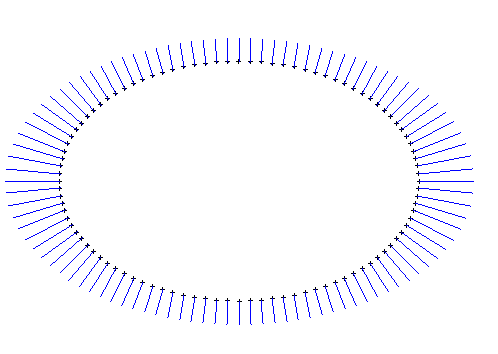
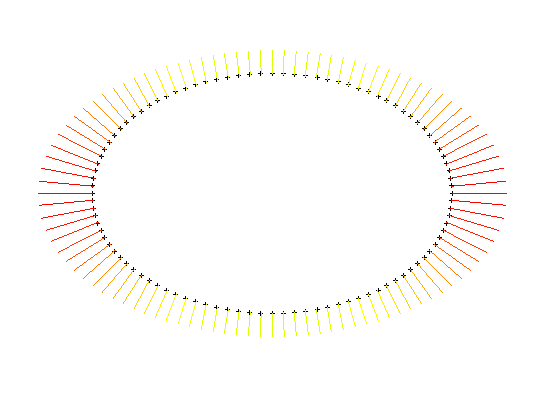
report: update and add images

diff --git a/report/B-2d.tex b/report/B-2d.tex
@@ -184,9 +184,9 @@ for different input point sets.
 
     \begin{minipage}{0.8\linewidth}
         \centering
-        \includegraphics[scale=0.32]{2d/area/square-76-001-100}
-        \includegraphics[scale=0.32]{2d/area/square-76-001-100-gradients}
-        \subcaption{Gradients of the area for 100 samples on a square}
+        \includegraphics[scale=0.32]{2d/area/square-40-001-100}
+        \includegraphics[scale=0.32]{2d/area/square-40-001-100-gradients}
+        \subcaption{Gradients of the area for 40 samples on a square}
         \label{fig:gradients_area_2d_square}
     \end{minipage}
 
@@ -218,9 +218,9 @@ same point clouds (see the figures \ref{fig:gradients_perimeter_2d}).
 
     \begin{minipage}{0.8\linewidth}
         \centering
-        \includegraphics[scale=0.32]{2d/perimeter/square-76-001-100}
-        \includegraphics[scale=0.32]{2d/perimeter/square-76-001-100-gradients}
-        \subcaption{Gradients of the perimeter for 100 samples on a square}
+        \includegraphics[scale=0.32]{2d/perimeter/square-40-001-100}
+        \includegraphics[scale=0.32]{2d/perimeter/square-40-001-100-gradients}
+        \subcaption{Gradients of the perimeter for 40 samples on a square}
         \label{fig:gradients_perimeter_2d_square}
     \end{minipage}
 
@@ -326,15 +326,28 @@ sampled on an ellipse: figures \ref{fig:ellipse_area_flow} and
     \includegraphics[scale=0.3]{2d/ellipse-balls-15}
     \subcaption{Minkowski sum of an ellipse and balls of radius $ 15 $}
 
-    \includegraphics[scale=0.4]{2d/area/ellipse-100-01-15}
-    \includegraphics[scale=0.4]{2d/area/ellipse-100-01-15-100}
+    \includegraphics[scale=0.3]{2d/area/ellipse-100-01-15}
+    \includegraphics[scale=0.3]{2d/area/ellipse-100-01-15-100}
     \subcaption{Area flow of an ellipse: 0 / 100 iterations with a timestep of $ 0.1 $}
     \label{fig:ellipse_area_flow}
 
-    \includegraphics[scale=0.4]{2d/perimeter/ellipse-100-01-15}
-    \includegraphics[scale=0.4]{2d/perimeter/ellipse-100-01-15-100}
+    \includegraphics[scale=0.3]{2d/perimeter/ellipse-100-01-15}
+    \includegraphics[scale=0.3]{2d/perimeter/ellipse-100-01-15-100}
     \subcaption{Perimeter flow of an ellipse: 0 / 100 iterations with a timestep of $ 0.5 $}
     \label{fig:ellipse_perimeter_flow}
+
+    \includegraphics[scale=0.22]{2d/perimeter/shark-0}
+    \includegraphics[scale=0.22]{2d/perimeter/shark-24}
+    \includegraphics[scale=0.22]{2d/perimeter/shark-49}
+    \subcaption{Perimeter flow of a shark: 0 / 25 / 50 iterations with a
+        timestep of $ 0.05 $}
+
+    \includegraphics[scale=0.22]{2d/perimeter/bird-0}
+    \includegraphics[scale=0.22]{2d/perimeter/bird-24}
+    \includegraphics[scale=0.22]{2d/perimeter/bird-49}
+    \subcaption{Perimeter flow of a bird: 0 / 25 / 50 iterations with a
+        timestep of $ 0.05 $}
+    \label{fig:shark_perimeter_flow}
 \end{figure}
 
 We test the smoothing property of our flow on points sampled on a square, see
@@ -350,33 +363,37 @@ discrete flow smooth the corners of the square.
     \label{fig:area_perimeter_flow_square}
 \end{figure}
 
-We also verify that the area of the union of balls is decreasing, see
-the figure \ref{fig:area_time_decrease}.
+We also verify that the area of the union of balls decreases with the number of
+iterations, see the figure \ref{fig:area_time_decrease}.
 
 \begin{figure}[h]
     \centering
     \includegraphics[scale=0.3]{2d/values-square-area}
     \includegraphics[scale=0.3]{2d/values-ellipse-perimeter}
-    \caption{Evolution of the area on different point clouds with the perimeter
+    \caption{Evolution of the area on different point clouds with the area
         flow : square / ellipse}
     \label{fig:area_time_decrease}
 \end{figure}
 
 Next, we add some outliers around the ellipse and observe the effects of the two
 flows: see the figures \ref{fig:ellipse_outliers_area_flow} and
-\ref{fig:ellipse_outliers_perimeter_flow}.
+\ref{fig:ellipse_outliers_perimeter_flow}. We see that the outliers are
+"swallowed" by the initial point set in both cases. But, for the area flow, a
+hole is created at the same place where the outliers were added.
 
 \begin{figure}[h]
     \centering
 
     \includegraphics[scale=0.3]{2d/area/ellipse-100-01-15-outliers}
     \includegraphics[scale=0.3]{2d/area/ellipse-100-01-15-outliers-40}
-    \subcaption{Area flow of an ellipse with outliers: 0 / 40 iterations with a timestep of $ 0.1 $}
+    \subcaption{Area flow of an ellipse with outliers: 0 / 40 iterations with a
+        timestep of $ 0.1 $}
     \label{fig:ellipse_outliers_area_flow}
 
     \includegraphics[scale=0.3]{2d/perimeter/ellipse-100-1-15-outliers}
     \includegraphics[scale=0.3]{2d/perimeter/ellipse-100-1-15-outliers-100}
-    \subcaption{Perimeter flow of an ellipse with outliers: 0 / 100 iterations with a timestep of $ 1 $}
+    \subcaption{Perimeter flow of an ellipse with outliers: 0 / 100 iterations
+        with a timestep of $ 1 $}
     \label{fig:ellipse_outliers_perimeter_flow}
 \end{figure}
 
@@ -407,11 +424,11 @@ the point set while redistributing the points in an uniform way.
 % TODO: explain why
 This can be explained by looking on a simple case with two intersecting balls:
 \begin{itemize}
-    \item for the perimeter: the gradients are directed towards the outside
+    \item \textit{for the perimeter}: the gradients are directed towards the outside
         and so the balls will be merged because we can say, using the triangle
         inequality, that in order to minimize the perimeter the balls must come
         closer.
-    \item for the area: using the same reasoning, in order to minimize the area,
+    \item \textit{for the area}: using the same reasoning, in order to minimize the area,
         it is possible that the gradients are oriented in opposite directions
         because the area gain may be more costly than moving the balls closer.
 \end{itemize}
@@ -485,6 +502,17 @@ sampled set of points. See the figures \ref{fig:line_fixed_area} and
 \end{figure}
 
 % TODO: explain why
+
+In short, the two flows (area and perimeter of the boundary) have the following
+common properties:
+\begin{itemize}
+    \item Smooth the point set: remove the outliers / noise
+    \item Can be used to estimate the mean curvature
+\end{itemize}
+
+But, there are differences between the two flows. The main one is that the area
+flow has the tendency to create holes in the point cloud. This difference is
+removed when we use the weighted versions of the flows.
 
 % {{{1 ASSESSMENT
 \section{Assessment}

diff --git a/code/viewer/src/QVectorFieldItem.hpp b/code/viewer/src/QVectorFieldItem.hpp
@@ -75,16 +75,25 @@ class QVectorFieldItem : public QGraphicsItem {
                 Vector_2 v = mit->second;
                 // Normalize the vector
                 /* v = v / CGAL::sqrt(v.squared_length()); */
+
                 // area unweighted
-                /* Point_2 q = p + 50 * v; */
+                /* Point_2 q = p + 20 * v; */
+                // square
+                /* Point_2 q = p + 2 * v; */
+
                 // area weighted
                 /* Point_2 q = p + 1000 * v; */
+
                 // perimeter unweighted
-                /* Point_2 q = p + 100 * v; */
+                Point_2 q = p + 100 * v;
+                // square
+                /* Point_2 q = p + 10 * v; */
+
                 // perimeter weighted
                 /* Point_2 q = p + 1000 * v; */
+
                 // area weighted perimeter
-                Point_2 q = p + 50 * v;
+                /* Point_2 q = p + 50 * v; */
 
                 double r, g, b;
                 misc::ramp(CGAL::sqrt(v.squared_length()) / m_maxNorm, r, g, b);
